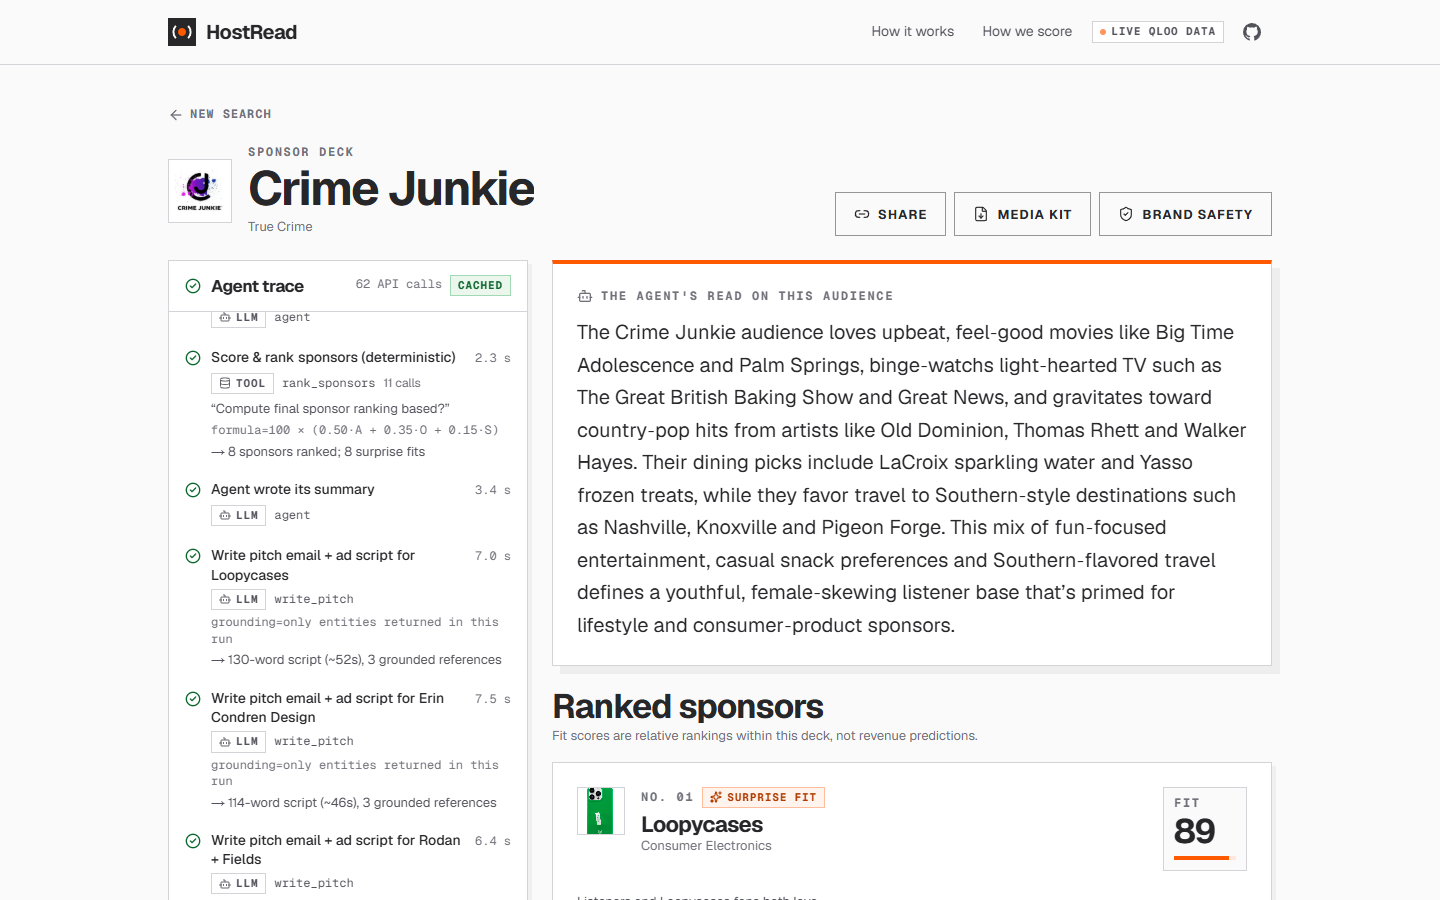
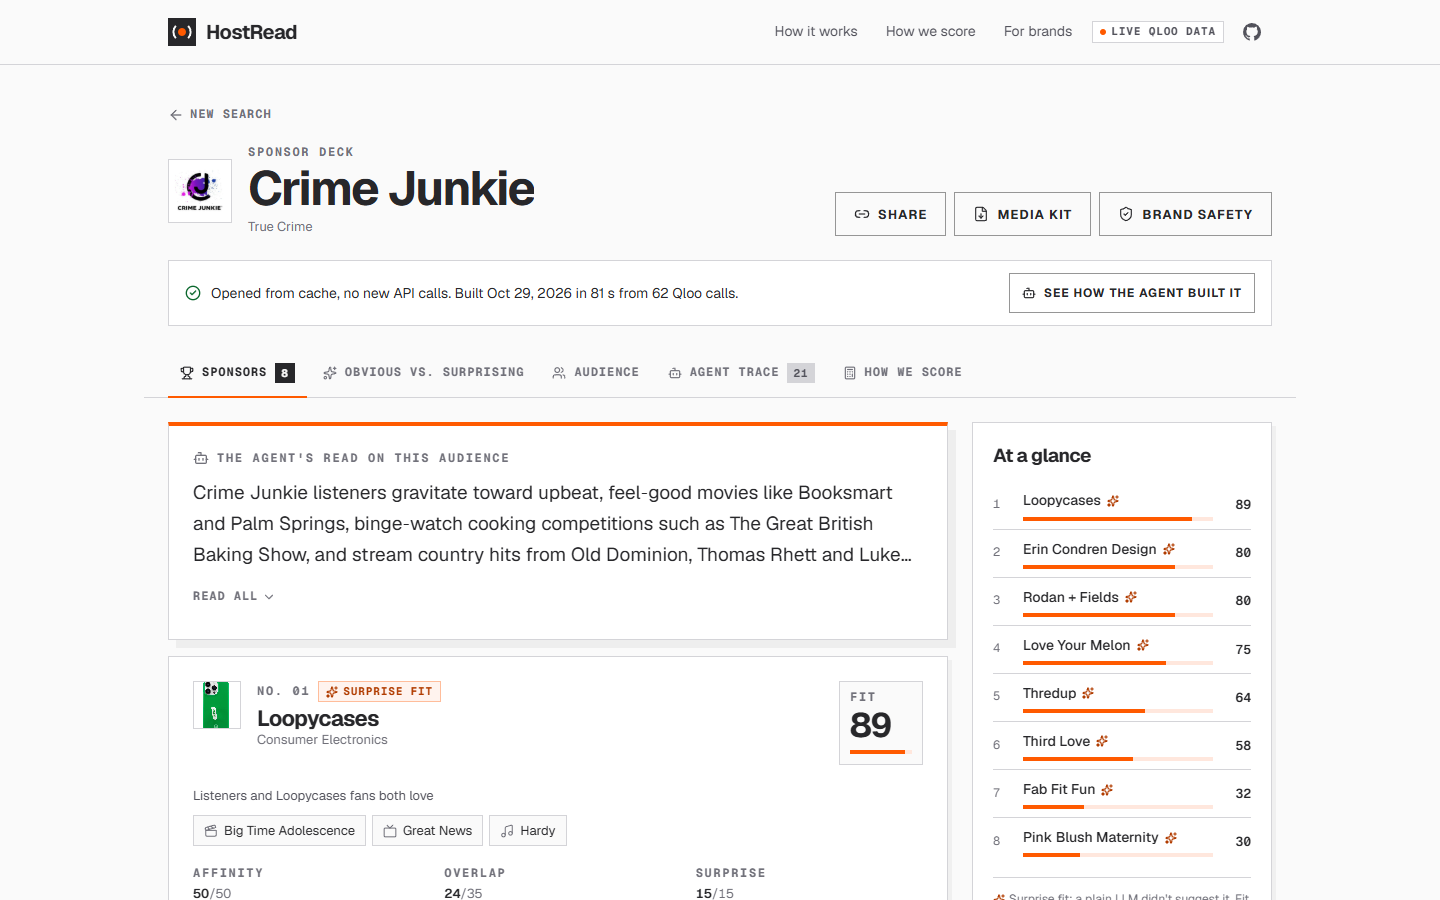
docs: retake deck, pitch, comparison and brand screenshots with tabs
Taken from the live site with live Qloo data after the tabbed layout
shipped; the old shots showed the single-scroll page and a pitch that
cited Walker Hayes.

Claude-Session: https://claude.ai/code/session_013J8H7YTgLpREbZCEHrXB3C

diff --git a/README.md b/README.md
@@ -12,7 +12,7 @@ It also runs the other way round: a brand enters its name and gets the **podcast
 
 | | |
 |---|---|
-| ![Sponsor deck: the agent trace, the agent's read on the audience and the top-ranked sponsor](docs/01-deck.png) | ![Pitch email for the top sponsor, citing favourites both audiences share](docs/02-pitch.png) |
+| ![Sponsor deck: tabs for sponsors, comparison, audience, trace and scoring; the agent's read, the top-ranked sponsor and an at-a-glance ranking](docs/01-deck.png) | ![Pitch email for the top sponsor, citing favourites both audiences share](docs/02-pitch.png) |
 | ![Obvious vs. Surprising: a plain LLM's guesses next to the taste-grounded picks](docs/03-obvious-vs-surprising.png) | ![One-page audience media kit](docs/04-media-kit.png) |
 
 ![Brand-side mode: the podcasts whose listeners love Patagonia, with the tastes both audiences share](docs/05-brand-match.png)
